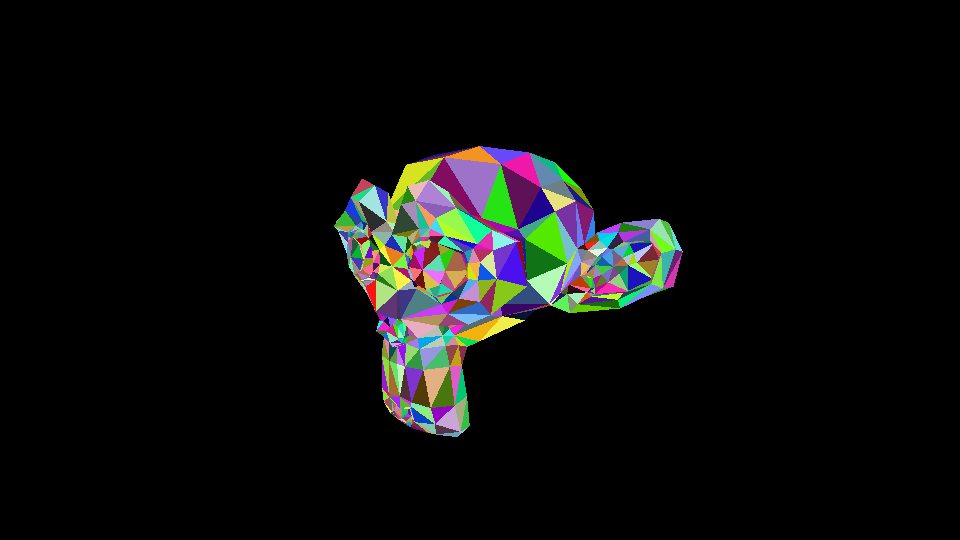
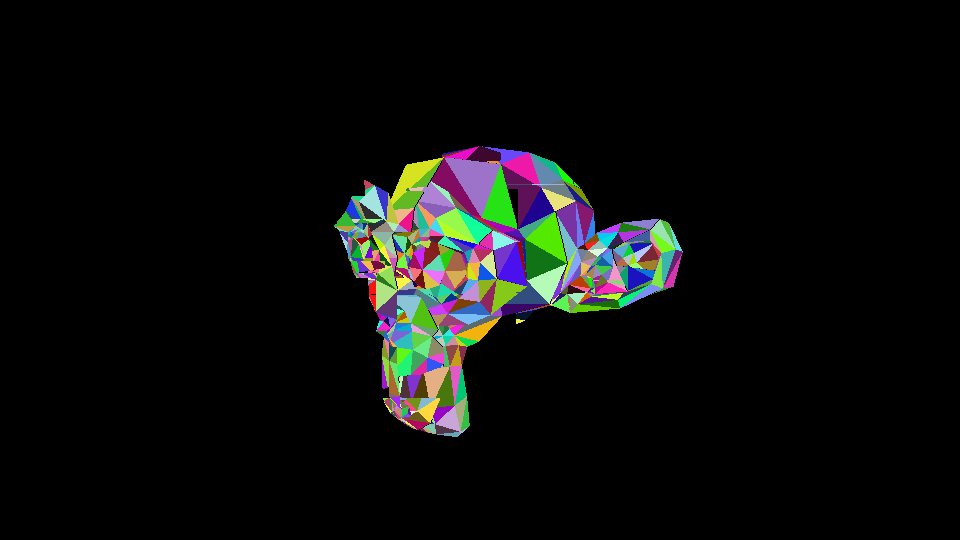
Refactor camera image processing for improved caching and triangle intersection handling; add TriangleCubeRange method for AABB checks; optimize grid object initialization in main.

diff --git a/src/camera.h b/src/camera.h
@@ -284,11 +284,11 @@ public:
 
     void cameraToImage(object obj)
     {
-        std::optional<std::size_t> cachedCube; // per-row cache
+        std::optional<std::size_t> cachedCube;
 
         for (unsigned i = 0; i < height; ++i)
         {
-            cachedCube.reset(); // reset per row
+            cachedCube.reset();
 
             for (unsigned j = 0; j < width; ++j)
             {
@@ -298,71 +298,66 @@ public:
                 if (obj.boundingGrid == nullptr)
                 {
                     getPixelColor(i, j, obj, gridRay[i][j]);
+                    continue;
                 }
-                else
+
+                bool triangleHit = false;
+
+                // Try cached cube first
+                if (cachedCube.has_value())
                 {
-                    bool hit = false;
-
-                    // Try cached cube first
-                    if (cachedCube.has_value())
+                    auto entry = obj.boundingGrid->Entries().find(cachedCube.value());
+                    if (entry != obj.boundingGrid->Entries().end() &&
+                        !entry->second.data.triples.empty() &&
+                        gmath::intersectRayCube(gridRay[i][j], entry->second.cube))
                     {
-                        const auto &entry = obj.boundingGrid->Entries().at(cachedCube.value());
-                        if (!entry.data.triples.empty() &&
-                            gmath::intersectRayCube(gridRay[i][j], entry.cube))
-                        {
-                            getPixelColor(i, j, obj, entry.data.triples, gridRay[i][j]);
-                            hit = true;
-
-                            // Check neighbors of cached cube
-                            if (!hit)
-                            {
-                                for (std::size_t nidx : entry.data.neighbors)
-                                {
-                                    const auto &neighbor = obj.boundingGrid->Entries().at(nidx);
-                                    if (!neighbor.data.triples.empty() &&
-                                        gmath::intersectRayCube(gridRay[i][j], neighbor.cube))
-                                    {
-                                        getPixelColor(i, j, obj, neighbor.data.triples, gridRay[i][j]);
-                                        cachedCube = nidx;
-                                        hit = true;
-                                        break;
-                                    }
-                                }
-                            }
-                        }
-                    }
-
-                    // Fall back to full loop
-                    if (!hit)
-                    {
-                        for (auto const &[idx, x] : obj.boundingGrid->getCubes())
-                        {
-                            if (x.data.triples.empty())
-                                continue;
-
-                            if (gmath::intersectRayCube(gridRay[i][j], x.cube))
-                            {
-                                cachedCube = idx;
-                                getPixelColor(i, j, obj, x.data.triples, gridRay[i][j]);
-                                hit = true;
-
-                                // Check neighbors of this cube
-                                for (std::size_t nidx : x.data.neighbors)
-                                {
-                                    const auto &neighbor = obj.boundingGrid->Entries().at(nidx);
-                                    if (!neighbor.data.triples.empty() &&
-                                        gmath::intersectRayCube(gridRay[i][j], neighbor.cube))
-                                    {
-                                        getPixelColor(i, j, obj, neighbor.data.triples, gridRay[i][j]);
-                                        cachedCube = nidx;
-                                        break;
-                                    }
-                                }
-                                break;
-                            }
-                        }
+                        triangleHit = getPixelColor(i, j, obj, entry->second.data.triples, gridRay[i][j]);
                     }
                 }
+
+                if (triangleHit)
+                    continue; // cache confirmed valid, nothing more to do this pixel
+
+                // Fall back to full loop
+                bool boxHit = false; // used only to decide when to stop scanning cubes
+                for (auto const &[idx, x] : obj.boundingGrid->getCubes())
+                {
+                    if (x.data.triples.empty())
+                        continue;
+
+                    if (!gmath::intersectRayCube(gridRay[i][j], x.cube))
+                        continue;
+
+                    boxHit = true;
+
+                    if (getPixelColor(i, j, obj, x.data.triples, gridRay[i][j]))
+                    {
+                        triangleHit = true;
+                        cachedCube = idx;
+                    }
+
+                    for (std::size_t nidx : x.data.neighbors)
+                    {
+                        auto it = obj.boundingGrid->Entries().find(nidx);
+                        if (it == obj.boundingGrid->Entries().end())
+                            continue;
+
+                        const auto &neighbor = it->second;
+                        if (!neighbor.data.triples.empty() &&
+                            gmath::intersectRayCube(gridRay[i][j], neighbor.cube))
+                        {
+                            if (getPixelColor(i, j, obj, neighbor.data.triples, gridRay[i][j]))
+                            {
+                                triangleHit = true;
+                                cachedCube = nidx; // keep the last cube that actually contributed a hit
+                            }
+                        }
+                    }
+                    break; // still safe: spatially, current + neighbors cover the local region
+                }
+
+                if (!triangleHit)
+                    cachedCube.reset(); // don't cache a cube that produced no real intersection
             }
         }
     }
@@ -386,7 +381,7 @@ private:
                 continue;
 
             double d = gmath::distance(r1.getOrigine(), *val);
-            if (d > best)
+            if (d >= best) // ← Same fix here
                 continue;
 
             hit = true;
@@ -394,7 +389,7 @@ private:
 
             if (hasTexture)
             {
-                color texel = obj.tex.get(i, j); // TODO: verify this should be UV, not screen coords
+                color texel = obj.tex.get(i, j);
                 img.set(i, j, combine ? (x.second / 10 + texel / 2) : texel);
             }
             else
@@ -407,20 +402,20 @@ private:
             img.set(i, j, defaultColor);
     }
 
-    void getPixelColor(unsigned int i, unsigned int j, object obj, const std::vector<std::array<point, 3>> &tris, ray r1, bool combine = false)
+    bool getPixelColor(unsigned int i, unsigned int j, object obj, const std::vector<std::array<point, 3>> &tris, ray r1, bool combine = false)
     {
         bool hasTexture = !obj.tex.empty();
         bool hit = false;
         double best = 1.0e18;
 
-        for (const auto &tri : tris) // tri is already std::array<point, 3>
+        for (const auto &tri : tris)
         {
             std::optional<point> val = gmath::intersectRayTriangle(r1, tri.data());
             if (!val)
                 continue;
 
             double d = gmath::distance(r1.getOrigine(), *val);
-            if (d > best)
+            if (d >= best) // ← Skip if NOT closer (was: d > best)
                 continue;
 
             hit = true;
@@ -439,6 +434,8 @@ private:
 
         if (!hit && img.get(i, j) != defaultColor)
             img.set(i, j, defaultColor);
+
+        return hit;
     }
 
     /* --------------------------------------------------------------

diff --git a/src/sphereBoundingGrid.h b/src/sphereBoundingGrid.h
@@ -37,10 +37,54 @@ public:
         Subdivide(nullptr, nullptr);
     }
 
+    // Returns the [min,max] cube index range along each axis that a triangle's AABB touches.
+    bool TriangleCubeRange(const std::array<point, 3> &tri,
+                           std::size_t &ixMin, std::size_t &ixMax,
+                           std::size_t &iyMin, std::size_t &iyMax,
+                           std::size_t &izMin, std::size_t &izMax) const
+    {
+        point minP = tri[0], maxP = tri[0];
+        for (int k = 1; k < 3; ++k)
+        {
+            minP = point(std::min(minP.get_x(), tri[k].get_x()),
+                         std::min(minP.get_y(), tri[k].get_y()),
+                         std::min(minP.get_z(), tri[k].get_z()));
+            maxP = point(std::max(maxP.get_x(), tri[k].get_x()),
+                         std::max(maxP.get_y(), tri[k].get_y()),
+                         std::max(maxP.get_z(), tri[k].get_z()));
+        }
+
+        const point origin = m_boundingCube.Origin();
+        const double fullSize = m_boundingCube.Size();
+        const double subSize = fullSize / static_cast<double>(m_divisions);
+
+        auto clampIdx = [&](double d) -> std::size_t
+        {
+            double c = std::min(std::max(d, 0.0), fullSize - 1e-9);
+            return static_cast<std::size_t>(std::min(c / subSize, static_cast<double>(m_divisions - 1)));
+        };
+
+        // If the triangle is entirely outside the bounding cube on any axis, reject.
+        if (maxP.get_x() < origin.get_x() || minP.get_x() > origin.get_x() + fullSize)
+            return false;
+        if (maxP.get_y() < origin.get_y() || minP.get_y() > origin.get_y() + fullSize)
+            return false;
+        if (maxP.get_z() < origin.get_z() || minP.get_z() > origin.get_z() + fullSize)
+            return false;
+
+        ixMin = clampIdx(minP.get_x() - origin.get_x());
+        ixMax = clampIdx(maxP.get_x() - origin.get_x());
+        iyMin = clampIdx(minP.get_y() - origin.get_y());
+        iyMax = clampIdx(maxP.get_y() - origin.get_y());
+        izMin = clampIdx(minP.get_z() - origin.get_z());
+        izMax = clampIdx(maxP.get_z() - origin.get_z());
+        return true;
+    }
+
     // Accelerated constructor: pass a vector of point-groups (no flattening).
     // For each group:
     //   - If all points in the group lie in the SAME cube AND group.size() >= 3,
-    //     that cube gets one triple from the first 3 points of that group.
+    //     that cube gets ALL possible triples from that group (triangle list: every 3 points).
     //   - If the group's points span multiple cubes, or group.size() < 3,
     //     the group is ignored (no partial assignment, no flattening).
     sphereBoundingGrid(const point &sphereCenter, double sphereRadius, std::size_t divisions,
@@ -61,27 +105,18 @@ public:
             if (!TryIndexForPoint(group[0], firstIdx))
                 continue; // first point outside bounding cube -> ignore group
 
-            bool allSame = true;
-            for (std::size_t i = 1; i < group.size(); ++i)
+            for (std::size_t i = 0; i + 2 < group.size(); i += 3)
             {
-                std::size_t idx;
-                if (!TryIndexForPoint(group[i], idx) || idx != firstIdx)
-                {
-                    allSame = false;
-                    break;
-                }
-            }
+                std::array<point, 3> triple = {group[i], group[i + 1], group[i + 2]};
 
-            if (!allSame)
-                continue; // group spans multiple cubes -> ignore
+                std::size_t ixMin, ixMax, iyMin, iyMax, izMin, izMax;
+                if (!TriangleCubeRange(triple, ixMin, ixMax, iyMin, iyMax, izMin, izMax))
+                    continue; // fully outside bounding cube
 
-            if (group.size() >= 3)
-            {
-                std::array<point, 3> triple = {
-                    group[0],
-                    group[1],
-                    group[2]};
-                cubeTriples[firstIdx].push_back(triple);
+                for (std::size_t ix = ixMin; ix <= ixMax; ++ix)
+                    for (std::size_t iy = iyMin; iy <= iyMax; ++iy)
+                        for (std::size_t iz = izMin; iz <= izMax; ++iz)
+                            cubeTriples[IndexOf(ix, iy, iz)].push_back(triple);
             }
         }
 
@@ -134,6 +169,7 @@ public:
                     entry.data.neighbors[5] = (iz < m_divisions - 1) ? IndexOf(ix, iy, iz + 1) : idx;
                 }
     }
+
     CubeEntry &At(std::size_t index) { return m_entries.at(index); }
     const CubeEntry &At(std::size_t index) const { return m_entries.at(index); }
 
@@ -276,7 +312,6 @@ private:
                    std::vector<std::size_t> *outTouchedIndices)
     {
         m_entries.clear();
-        // m_entries is now a map, so no resize needed
 
         const point origin = m_boundingCube.Origin();
         const double fullSize = m_boundingCube.Size();
@@ -312,9 +347,8 @@ private:
                         }
                     }
 
-                    // Only insert if this cube has geometry
-                    if (!data.triples.empty())
-                        m_entries[idx] = CubeEntry{std::move(subCube), std::move(data)};
+                    // Always insert the cube (even if empty)
+                    m_entries[idx] = CubeEntry{std::move(subCube), std::move(data)};
                 }
             }
         }

diff --git a/src/main.cpp b/src/main.cpp
@@ -12,19 +12,18 @@ void test()
 {
     space s;
     object obj(primitive::suzane, 10);
-    obj.enableGrid(20);
+    obj.enableGrid(10);
     s.addObject(obj);
 
     MeshReader reader;
     s.loadReader("../scene_export.txt", reader);
     s.loadCameraFromFile(reader);
-
     s.launchThreadedCameraSplit();
 }
 
 int main(int argc, char const *argv[])
 {
-    scene_file();
+    test();
     return 0;
 }
 
